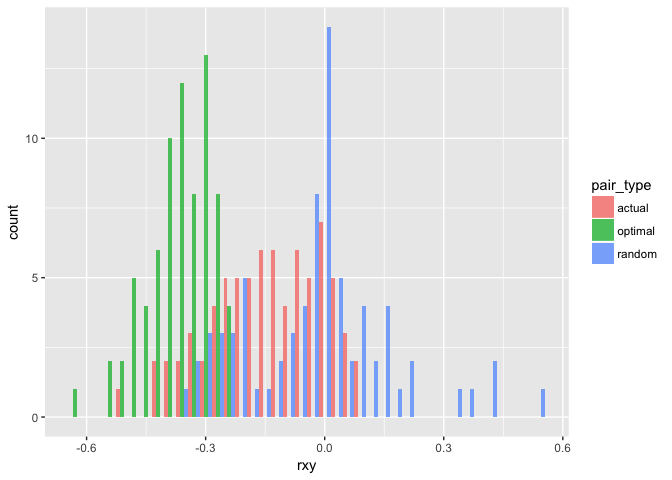
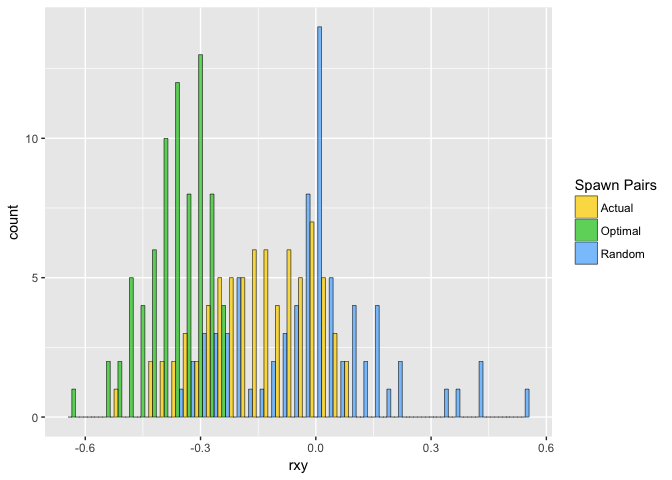
Change some names for Libby

diff --git a/README.md b/README.md
@@ -1,6 +1,6 @@
 CohoBroodstock
 ================
-08 February, 2018
+09 February, 2018
 
 -   [Installing](#installing)
 -   [Actual vs Optimal vs Random Relatedness](#actual-vs-optimal-vs-random-relatedness)
@@ -91,26 +91,28 @@ AOR <- aor_pairs(actual_pairs, rxys)
 # have a look at it:
 AOR
 #> # A tibble: 225 x 5
-#>    Female Male    pair_type   idx     rxy
-#>    <chr>  <chr>   <chr>     <int>   <dbl>
-#>  1 F_01F  M_14MJ  actual        1 -0.153 
-#>  2 F_01F  M_21MJ  actual        2 -0.269 
-#>  3 F_01F  M_52M   optimal       1 -0.396 
-#>  4 F_01F  M_nb002 optimal       2 -0.295 
-#>  5 F_01F  M_31MJ  random        1 -0.0130
-#>  6 F_01F  M_19MJ  random        2 -0.0382
-#>  7 F_02F  M_46M   actual        1 -0.0493
-#>  8 F_02F  M_41MJ  actual        2  0.0181
-#>  9 F_02F  M_17MJ  optimal       1 -0.301 
-#> 10 F_02F  M_nb002 optimal       2 -0.345 
+#>    Female Male    `Spawn Pairs`   idx     rxy
+#>    <chr>  <chr>   <chr>         <int>   <dbl>
+#>  1 F_01F  M_14MJ  Actual            1 -0.153 
+#>  2 F_01F  M_21MJ  Actual            2 -0.269 
+#>  3 F_01F  M_52M   Optimal           1 -0.396 
+#>  4 F_01F  M_nb002 Optimal           2 -0.295 
+#>  5 F_01F  M_31MJ  Random            1 -0.0130
+#>  6 F_01F  M_19MJ  Random            2 -0.0382
+#>  7 F_02F  M_46M   Actual            1 -0.0493
+#>  8 F_02F  M_41MJ  Actual            2  0.0181
+#>  9 F_02F  M_17MJ  Optimal           1 -0.301 
+#> 10 F_02F  M_nb002 Optimal           2 -0.345 
 #> # ... with 215 more rows
 ```
 
 Then plot those values in a histogram:
 
 ``` r
-ggplot(AOR, aes(x =  rxy, fill = pair_type)) +
-  geom_histogram(position = "dodge", alpha = 0.75, binwidth = 0.03)
+cols <- c(Actual = "gold", Optimal = "limegreen", Random = "steelblue1")
+ggplot(AOR, aes(x =  rxy, fill = `Spawn Pairs`)) +
+  geom_histogram(position = "dodge", alpha = 0.75, binwidth = 0.03, color = "black", size = 0.2) +
+  scale_fill_manual(values = cols)
 ```
 
 ![](readme-figs/aor_histo1-1.png)
